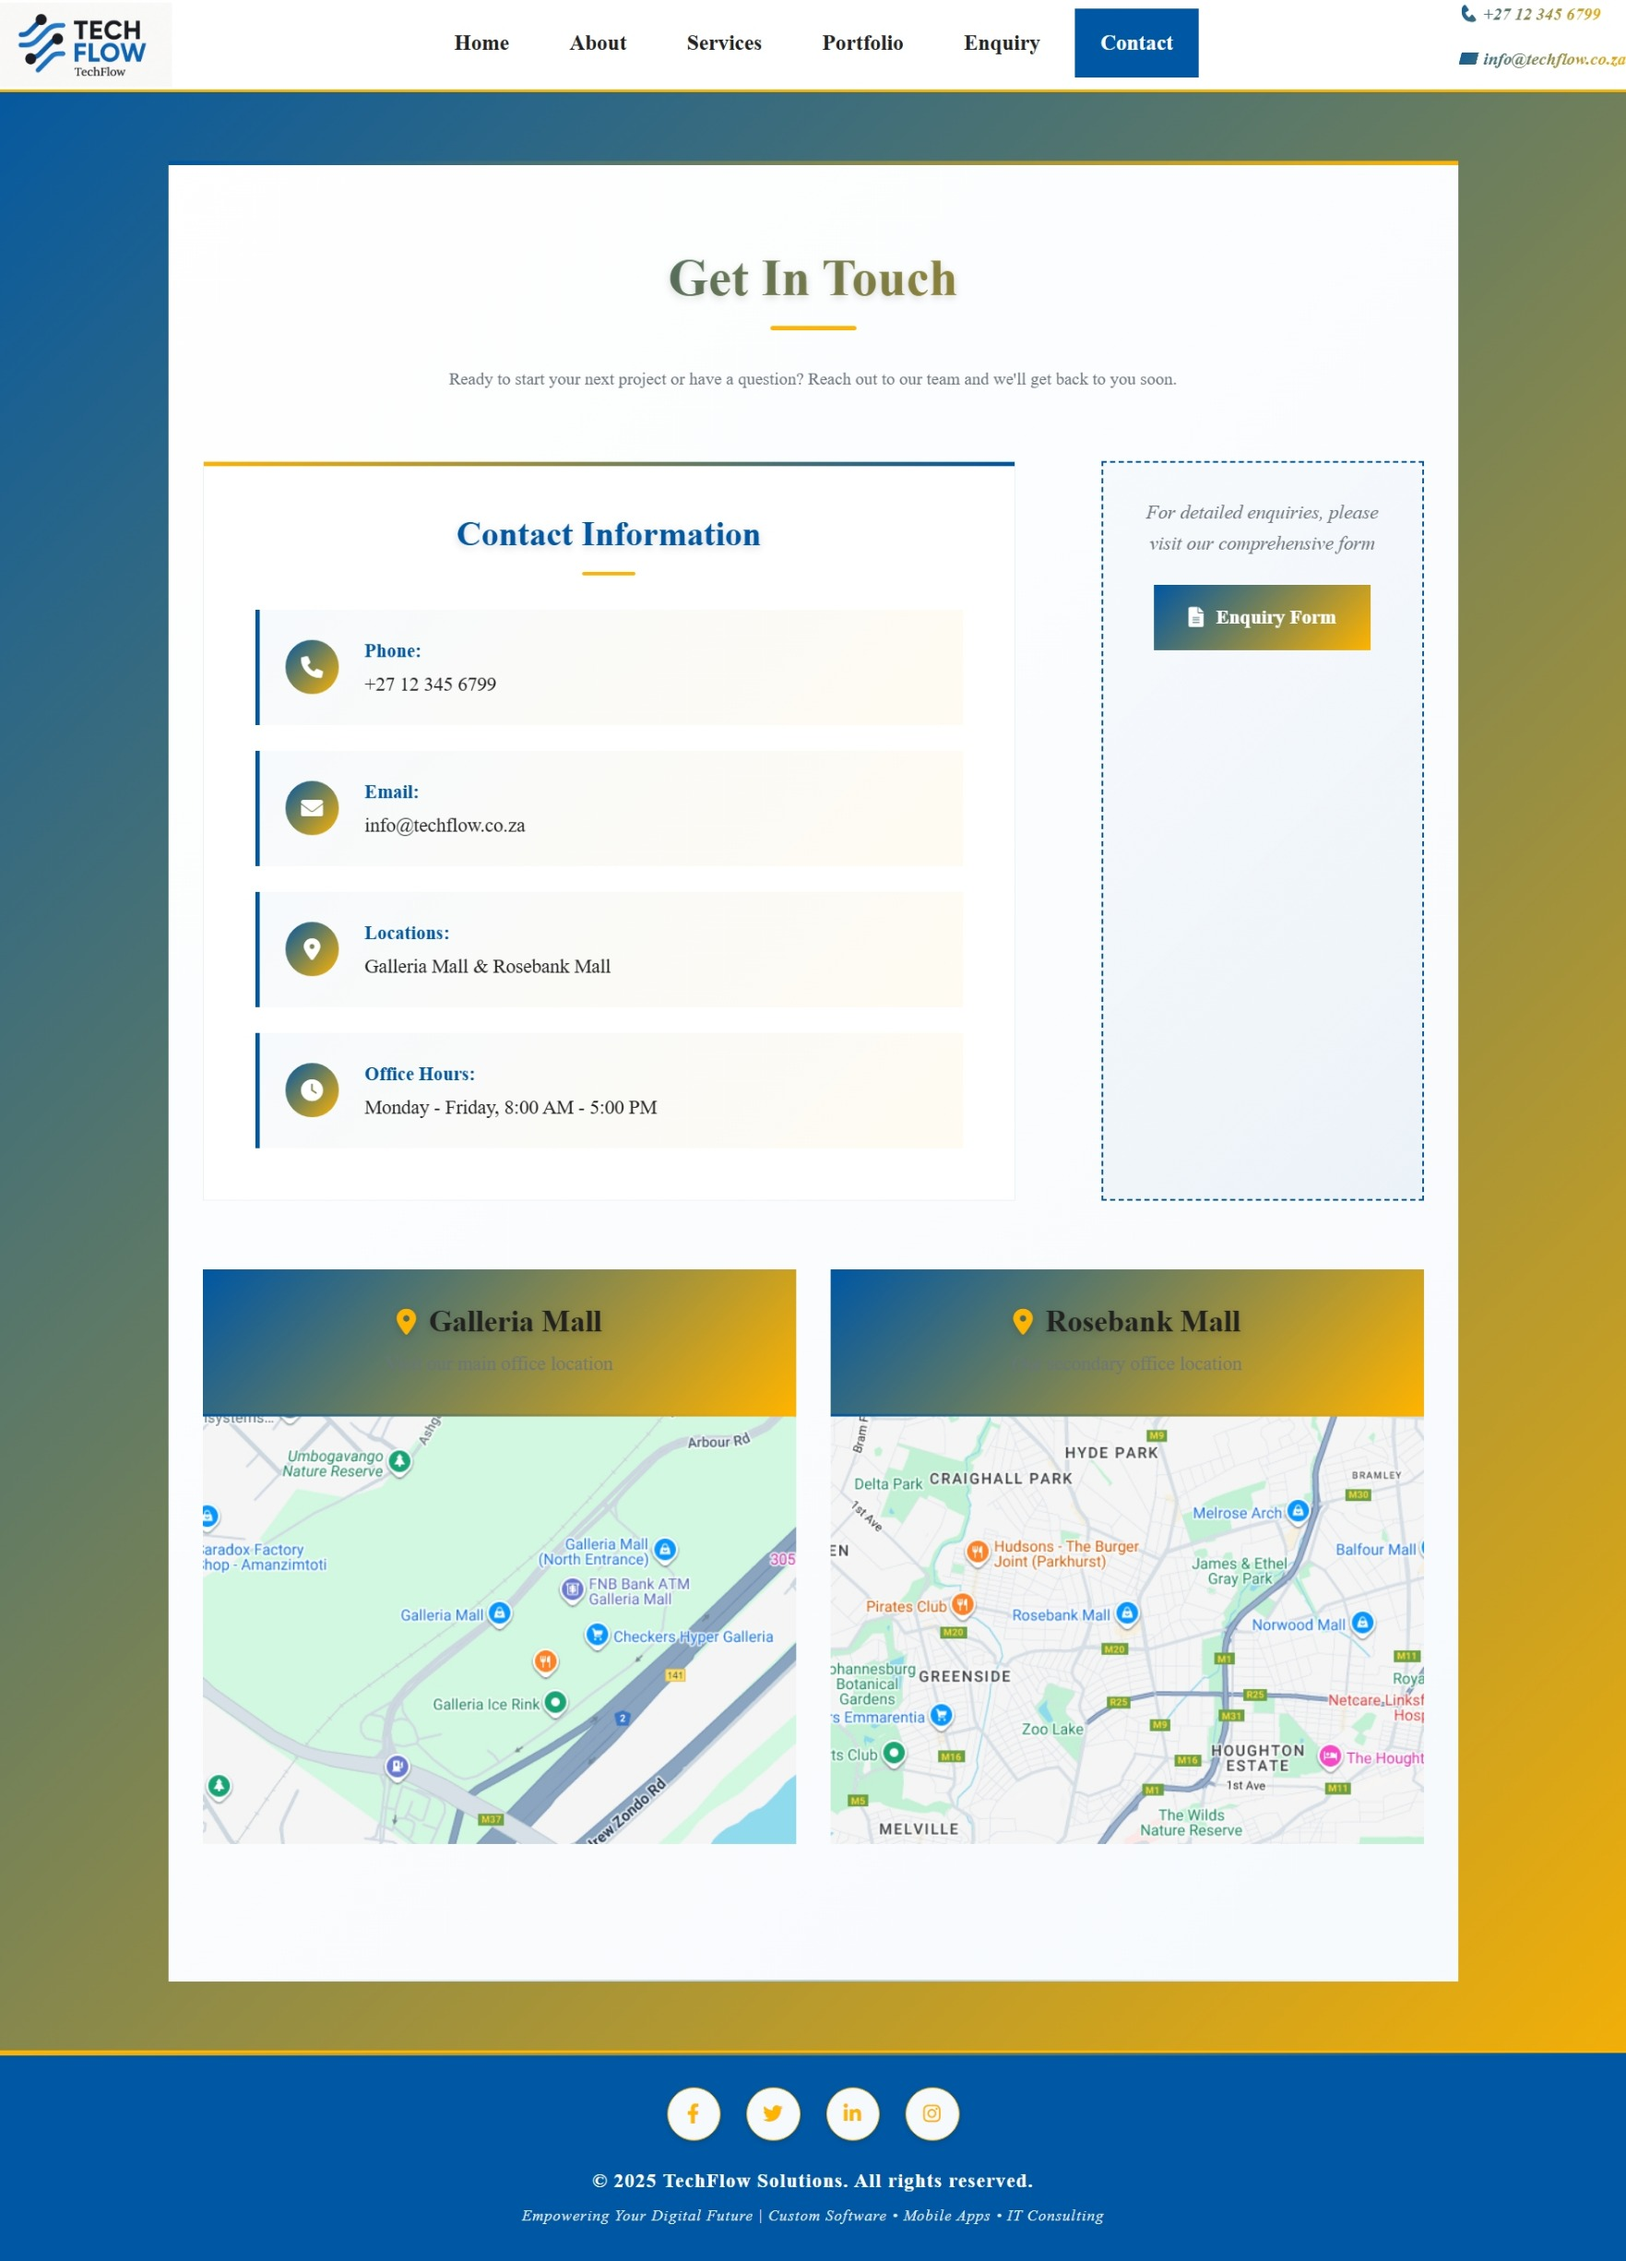
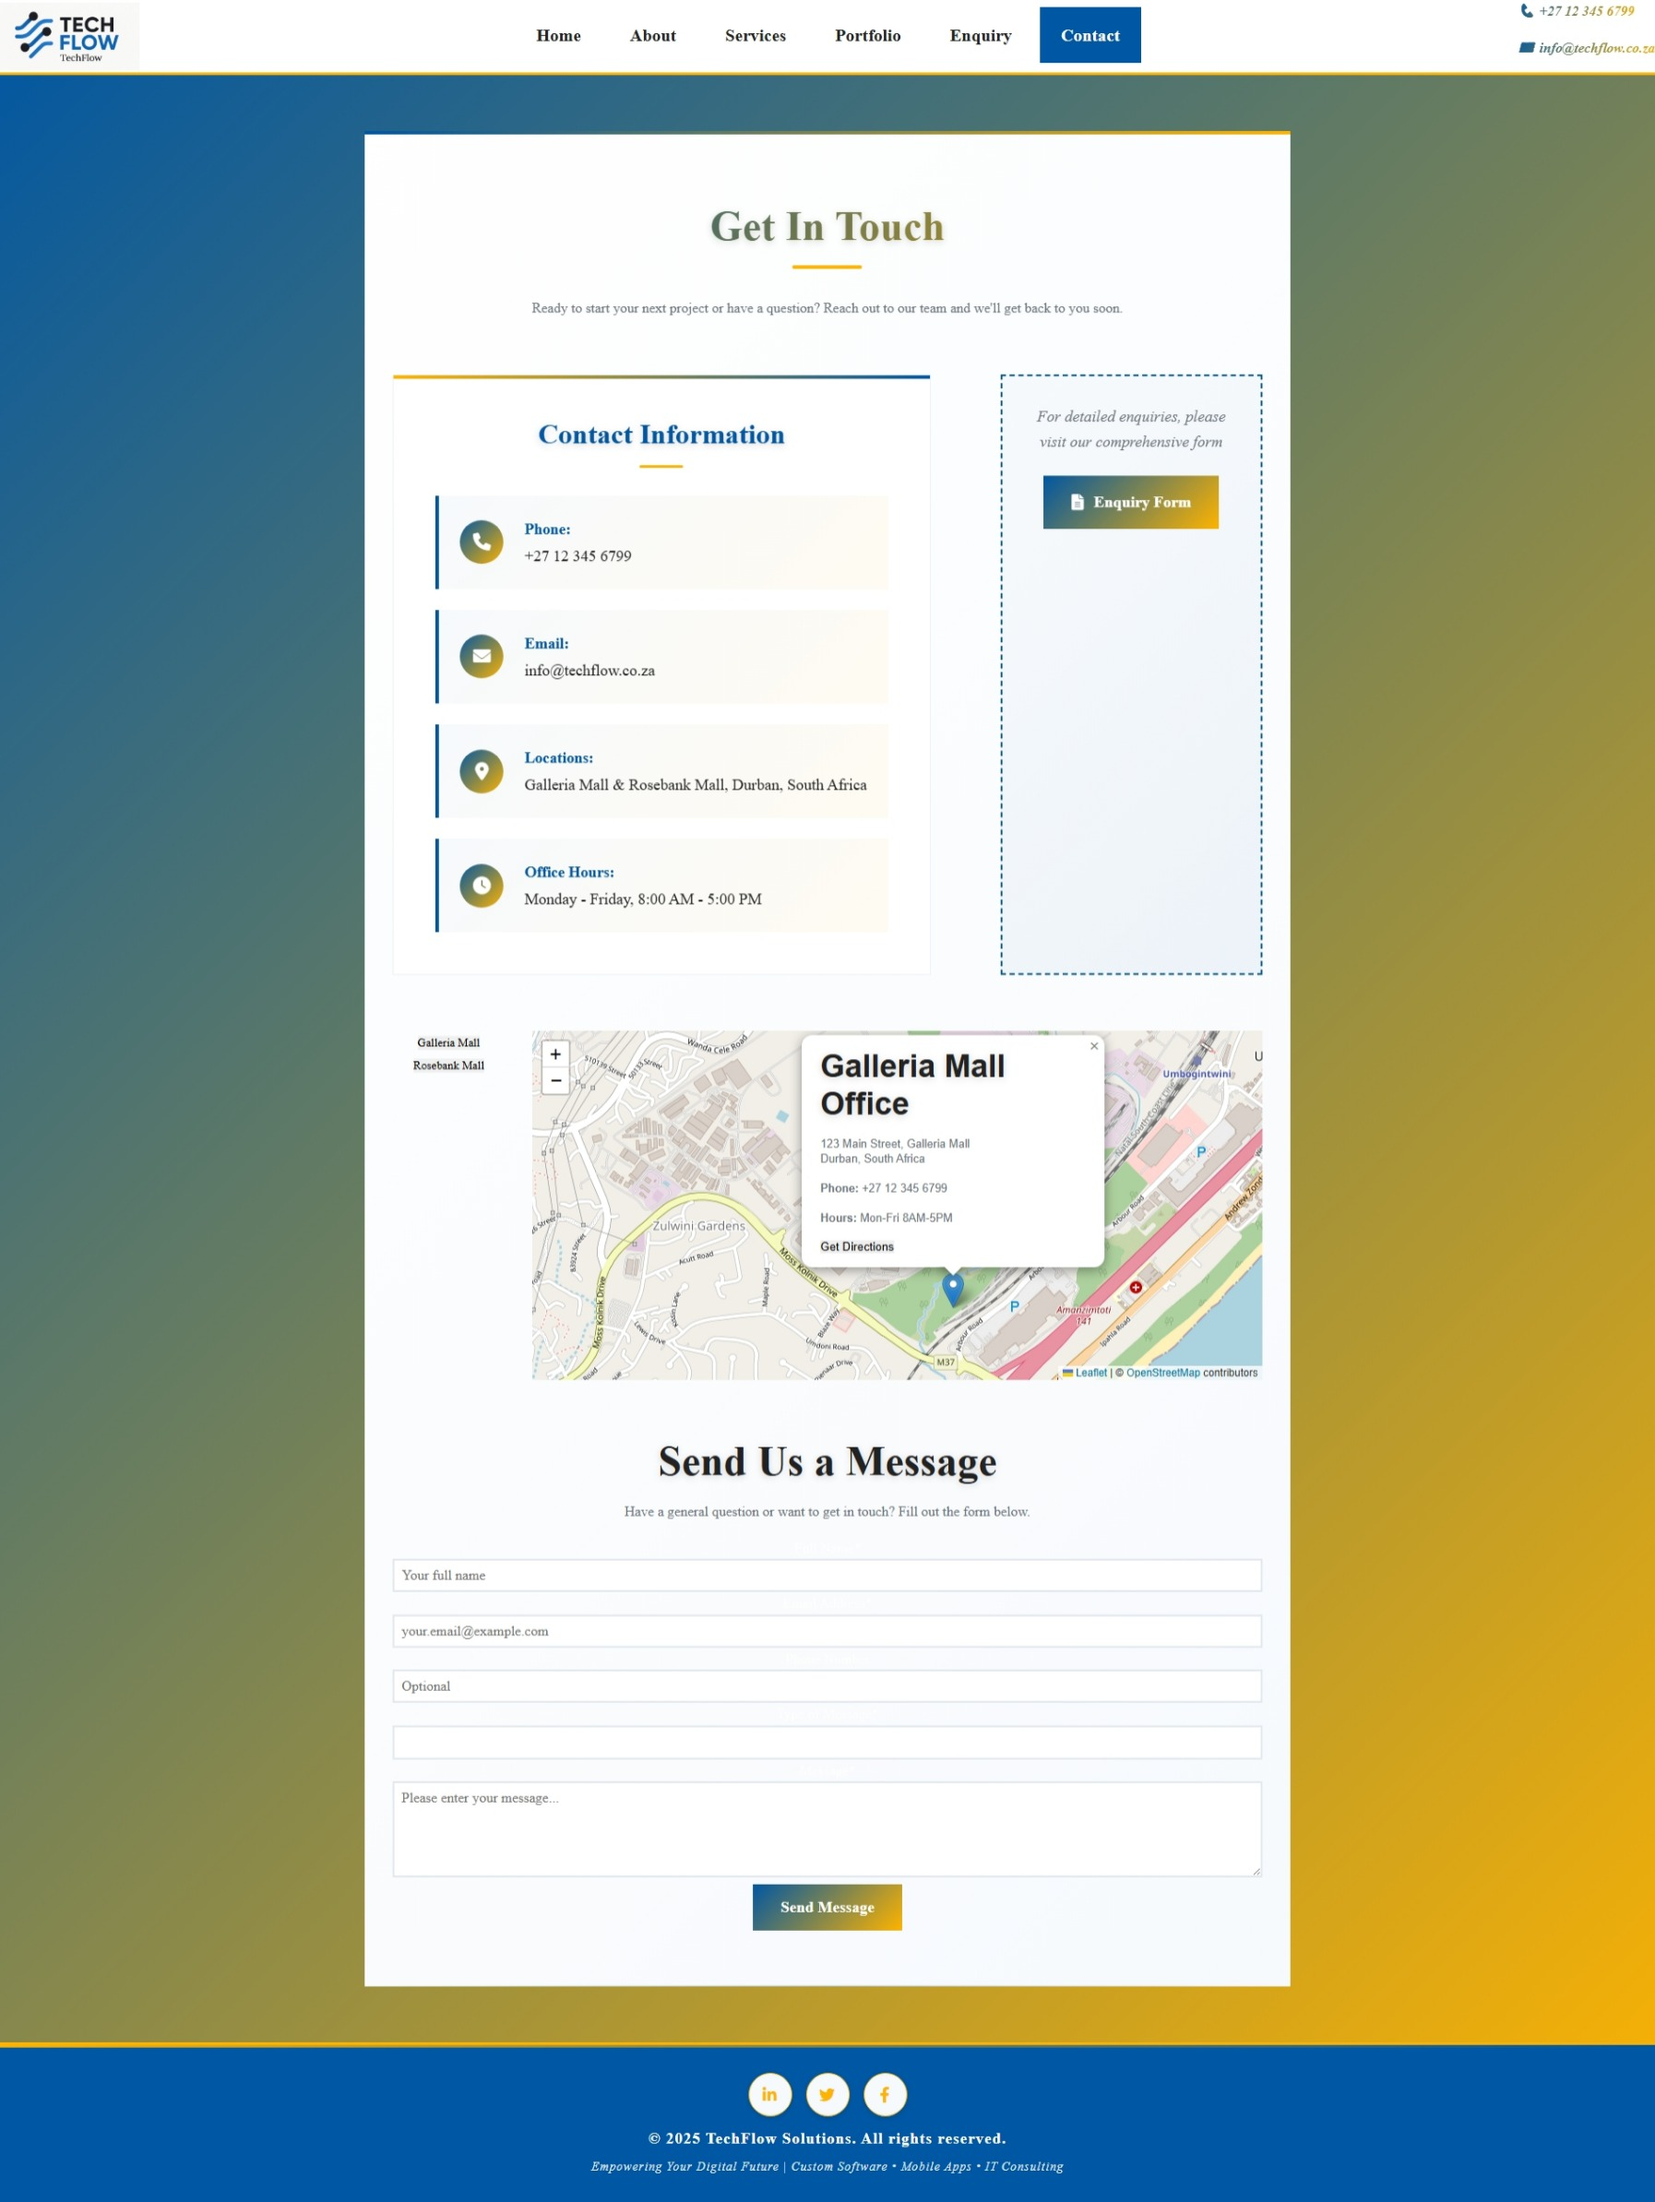
Update responsive images and documentation for submission

diff --git a/contact.html b/contact.html
@@ -28,17 +28,6 @@
               integrity="sha256-p4NxAoJBhIIN+hmNHrzRCf9tD/miZyoHS5obTRR9BMY="
               crossorigin=""/>
         <script src="js/head.js"></script>  <!-- Dynamic head generation script -->
-        <script src="js/navigation.js"></script>    <!-- Navigation highlighting script -->
-        <script src="js/address.js"></script>       <!-- Dynamic address loading -->
-        <script src="js/footer.js"></script>    <!-- Dynamic footer generation -->
-        <script src="js/top.js"></script>   <!-- Scroll-to-top button functionality -->
-        <script src="js/validation.js"></script> <!-- Client-side form validation -->
-        <script src="js/contact-form.js"></script> <!-- Contact form submission handling -->
-        <!-- Leaflet JS for interactive maps -->
-        <script src="https://unpkg.com/leaflet@1.9.4/dist/leaflet.js"
-                integrity="sha256-20nQCchB9co0qIjJZRGuk2/Z9VM+kNiyxNV1lvTlZBo="
-                crossorigin=""></script>
-        <script src="js/maps.js"></script> <!-- Interactive maps initialization -->
     </head>
 
 <body class="contact-page">
@@ -186,9 +175,41 @@
             </div>
         </form>
     </section>
+ 
+    </section> <!-- close .contact so footer is outside the boxed area -->
+ <!-- ================= Footer Section ================= -->
+    <!-- Site footer with social media links and company info - specific to contact page -->
+    <footer class="footer">
+        <div class="footer-content">
+            <div class="social-media">
+                <a href="https://linkedin.com/company/techflow-solutions" target="_blank" rel="noopener" aria-label="Connect with us on LinkedIn">
+                    <i class="fab fa-linkedin-in"></i>
+                </a>
+                <a href="https://twitter.com/techflow_sa" target="_blank" rel="noopener" aria-label="Follow us on Twitter">
+                    <i class="fab fa-twitter"></i>
+                </a>
+                <a href="https://facebook.com/techflow.solutions" target="_blank" rel="noopener" aria-label="Follow us on Facebook">
+                    <i class="fab fa-facebook-f"></i>
+                </a>
+            </div>
+            <div class="footer-info">
+                <p>&copy; 2025 <strong>TechFlow Solutions</strong>. All rights reserved.</p>
+                <p>Empowering Your Digital Future | Custom Software • Mobile Apps • IT Consulting</p>
+            </div>
+        </div>
+    </footer>
 
+    <!-- ================= JavaScript Files ================= -->
+    <!-- Scripts loaded at end of body for optimal performance -->
+    <script src="js/navigation.js"></script>    <!-- Navigation highlighting script -->
+    <script src="js/address.js"></script>       <!-- Dynamic address loading -->
+    <script src="js/top.js"></script>   <!-- Scroll-to-top button functionality -->
+    <script src="js/validation.js"></script> <!-- Client-side form validation -->
+    <script src="js/contact-form.js"></script> <!-- Contact form submission handling -->
+    <!-- Leaflet JS for interactive maps -->
+    <script src="https://unpkg.com/leaflet@1.9.4/dist/leaflet.js"
+            integrity="sha256-20nQCchB9co0qIjJZRGuk2/Z9VM+kNiyxNV1lvTlZBo="
+            crossorigin=""></script>
+    <script src="js/maps.js"></script> <!-- Interactive maps initialization -->
 </body>
-<!-- ================= Footer Section ================= -->
-<!-- Site footer with social media links and company info - dynamically loaded -->
-<footer class="footer"></footer>
 </html>

diff --git a/css/contact.css b/css/contact.css
@@ -1,3 +1,21 @@
+/* Contact Page Body Styles */
+body.contact-page {
+    margin: 0;
+    padding: 0;
+    scroll-behavior: smooth;
+    min-height: 100vh;
+    display: flex;
+    flex-direction: column;
+}
+
+body.contact-page > * {
+    flex-shrink: 0;
+}
+
+body.contact-page footer.footer {
+    margin-top: auto;
+}
+
 /* Contact Section - Enhanced Modern Design */
 .contact {
     background: linear-gradient(135deg, var(--bg-white) 0%, var(--bg-light) 100%);
@@ -599,6 +617,47 @@
         height: 200px;
     }
 }
+/* Footer Styles */
+/* Replace the problematic full-viewport footer rules with a flexible sticky footer */
+footer.footer {
+  width: 100%;
+  left: 0;
+  right: 0;
+  background-color: #0057a3;
+  color: #fff;
+  text-align: center;
+  padding: 2rem 0;
+  margin: 0;
+  box-sizing: border-box;
+  position: relative; /* keeps footer in normal flow; body.contact-page uses flex so margin-top:auto still works */
+}
+
+/* constrain and center the footer's inner content */
+footer.footer .footer-content {
+  max-width: 1200px;
+  margin: 0 auto;
+  padding: 0 1.5rem;
+  box-sizing: border-box;
+  display: flex;
+  flex-direction: column;
+  align-items: center;
+  gap: 0.75rem;
+}
+
+/* keep link and icon styles */
+footer.footer p,
+footer.footer a {
+  color: #fff;
+  text-decoration: none;
+}
+
+footer.footer .social-media {
+  display: flex;
+  gap: 1rem;
+  align-items: center;
+  justify-content: center;
+}
+
 
 /* High Contrast Mode Support */
 @media (prefers-contrast: high) {

diff --git a/js/head.js b/js/head.js
@@ -15,6 +15,7 @@ document.addEventListener('DOMContentLoaded', function () {
     const metaViewport = '<meta name="viewport" content="width=device-width, initial-scale=1.0">';
     const title = document.title || 'TechFlow Solutions';
     const metaDescription = document.querySelector('meta[name="description"]') ? '' : '<meta name="description" content="TechFlow Solutions empowers your business through Custom Software, Mobile Apps, and IT Consulting. Future-proof your digital presence.">';
+    const favicon = '<link rel="icon" type="image/jpeg" href="images/logo.jpeg">';
     const stylesheet = '<link rel="stylesheet" href="css/styles.css">';
 
     // Insert only if not already present
@@ -22,6 +23,7 @@ document.addEventListener('DOMContentLoaded', function () {
     if (!head.querySelector('meta[name="viewport"]')) head.insertAdjacentHTML('beforeend', metaViewport);
     if (!head.querySelector('title')) head.insertAdjacentHTML('beforeend', `<title>${title}</title>`);
     if (metaDescription) head.insertAdjacentHTML('beforeend', metaDescription);
+    if (!head.querySelector('link[rel="icon"]')) head.insertAdjacentHTML('beforeend', favicon);
     if (!head.querySelector('link[rel="stylesheet"][href="css/styles.css"]')) head.insertAdjacentHTML('beforeend', stylesheet);
 });
 

diff --git a/css/services.css b/css/services.css
@@ -84,9 +84,10 @@
 }
 
 .services-container {
-    display: flex;
-    flex-wrap: wrap;
+    display: grid;
+    grid-template-columns: repeat(auto-fit, minmax(21.25rem, 1fr));
     gap: var(--spacing-2xl);
+    justify-items: center;
     justify-content: center;
 }
 
@@ -94,8 +95,6 @@
     background: var(--bg-light);
     box-shadow: 0 0.125rem 0.75rem rgba(0, 87, 163, 0.10); /* 2px 12px */
     border-radius: 0.75rem; /* 12px */
-    width: 21.25rem; /* 340px */
-    margin-bottom: var(--spacing-xl);
     padding: var(--spacing-xl) var(--spacing-lg);
     display: flex;
     flex-direction: column;
@@ -105,6 +104,7 @@
     border: 2px solid var(--primary-color);
     cursor: pointer;
     overflow: hidden;
+    position: relative;
 }
 
 .service-item:hover {
@@ -200,7 +200,10 @@
 
 .click-hint {
     text-align: center;
-    margin-top: var(--spacing-xl);
+    position: absolute;
+    bottom: 20px;
+    left: 50%;
+    transform: translateX(-50%);
     color: #666;
     font-style: italic;
     transition: all 0.3s ease;

diff --git a/enquiry.html b/enquiry.html
@@ -19,6 +19,7 @@
         <script src="js/top.js"></script>   <!-- Top button scripts -->
         <script src="js/address.js"></script> <!-- Address scripts -->
         <script src="js/validation.js"></script> <!-- Form validation scripts -->
+        <script src="js/service-enquiry.js"></script> <!-- Service selection handling -->
     </head>
 <body class="enquiry-page">
     <!-- ================= Header Section ================= -->
